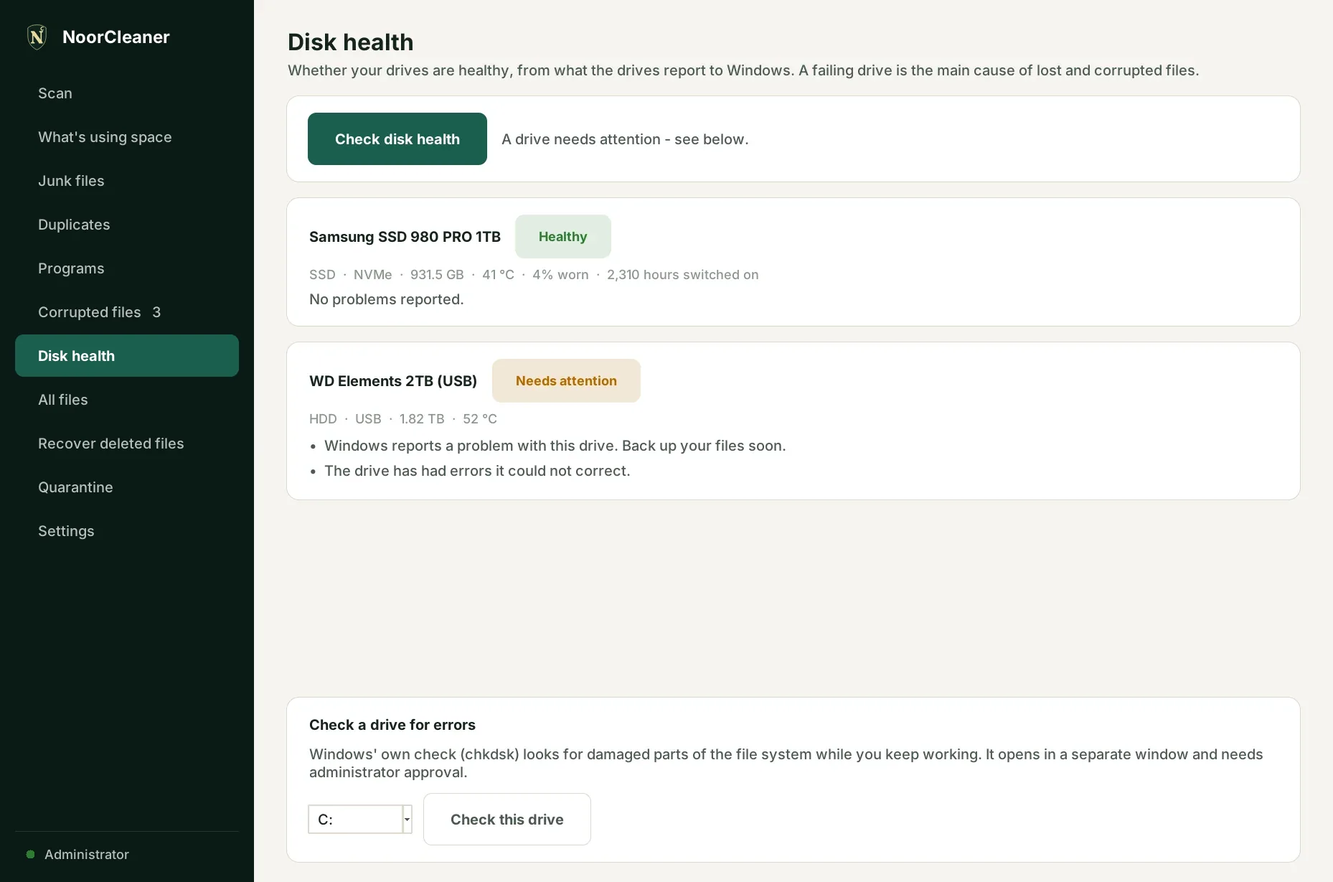
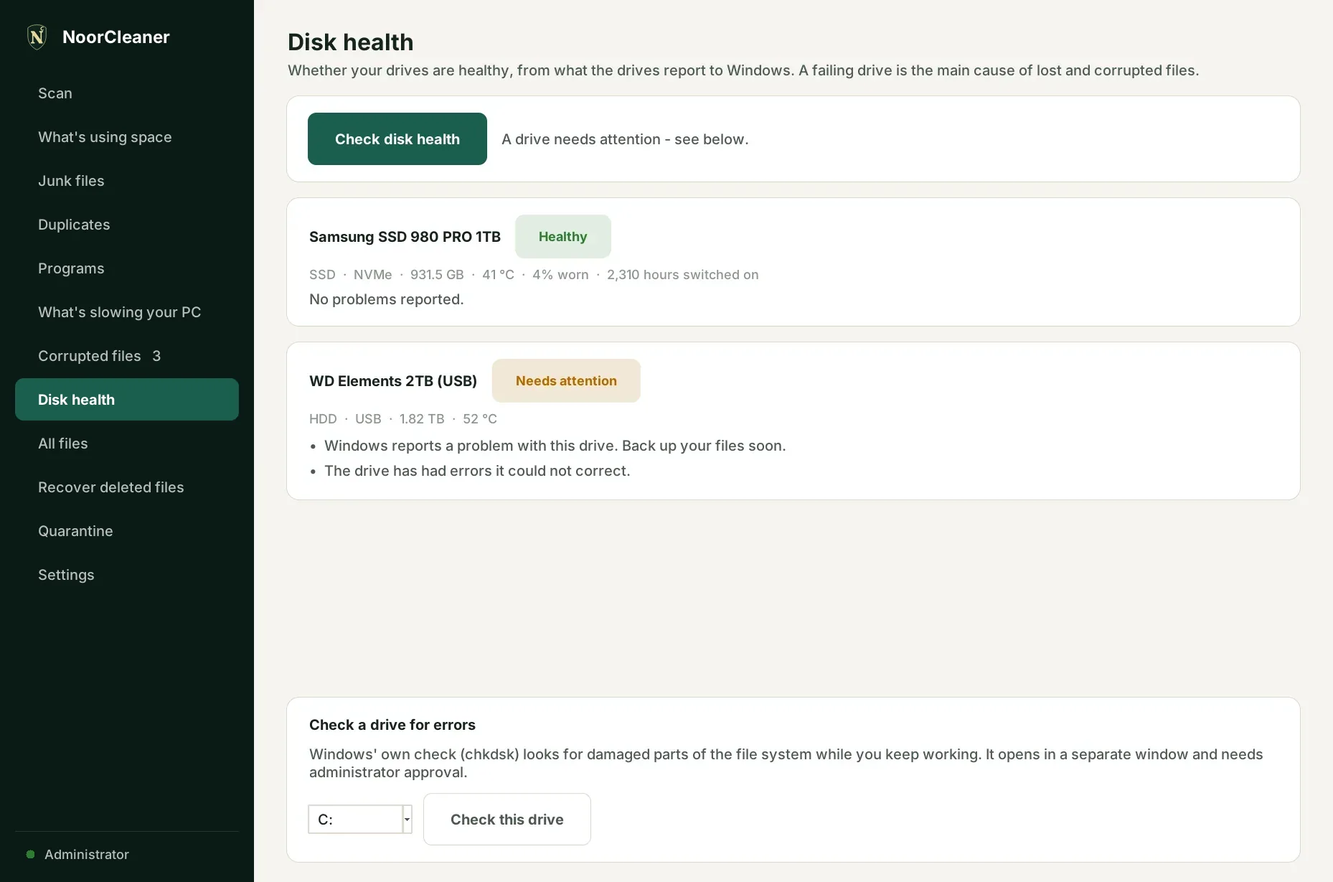
NoorCleaner page: new features (what's slowing your PC, unused programs), administrator and confirmation pop-up notes, fresh screenshots; NoorGuard page: administrator wording
Claude-Session: https://claude.ai/code/session_01XaM13YcQrwPvAWamN7GQYo

Changed region(s): [[0.0, 0.3401, 0.1873, 0.5566], [0.0312, 0.5875, 0.0936, 0.6184], [0.0312, 0.6493, 0.0624, 0.6802]]

diff --git a/noorcleaner/index.html b/noorcleaner/index.html
@@ -43,7 +43,7 @@
       <div>
         <span class="eyebrow" data-i18n="hero_eyebrow">Free Windows app · Early beta</span>
         <h1><span data-i18n="hero_title_1">See what's filling your PC.</span> <em data-i18n="hero_title_2">Free up space safely.</em></h1>
-        <p class="lead" data-i18n="hero_lead">NoorCleaner shows exactly what is taking up your storage, clears junk, finds duplicate files and similar photos, and helps you get back files you deleted. Nothing is removed unless you choose it.</p>
+        <p class="lead" data-i18n="hero_lead">NoorCleaner shows exactly what is taking up your storage and what is slowing your PC, clears junk, finds duplicate files and similar photos, spots programs you have not used for months, and helps you get back files you deleted. Nothing is removed unless you choose it.</p>
         <div class="ctas">
           <a class="btn btn-gold" data-download>
             <svg viewBox="0 0 24 24" aria-hidden="true"><path fill="currentColor" d="M3 5.5 10.5 4.4v7.1H3V5.5Zm0 13 7.5 1.1v-7H3v5.9Zm8.4 1.3L21 21V12.6h-9.6v7.2ZM11.4 4.3v7.2H21V3l-9.6 1.3Z"/></svg>
@@ -56,7 +56,7 @@
         </div>
       </div>
       <div class="window" aria-hidden="false">
-        <div class="titlebar"><img src="img/logo.svg" alt="">NoorCleaner 2.3<span class="controls"><span>&#8212;</span><span>&#9633;</span><span>&#10005;</span></span></div>
+        <div class="titlebar"><img src="img/logo.svg" alt="">NoorCleaner 2.5<span class="controls"><span>&#8212;</span><span>&#9633;</span><span>&#10005;</span></span></div>
         <img class="shot" src="img/space.webp" width="1858" height="1229" alt="NoorCleaner showing the biggest folders, file types and files on a PC" data-zoom>
       </div>
     </div>
@@ -78,7 +78,7 @@
       <div class="section-head reveal">
         <span class="kicker" data-i18n="features_kicker">Everything in one place</span>
         <h2 data-i18n="features_title">A clean, calm PC in a few clicks</h2>
-        <p data-i18n="features_text">Eight tools that work together, with a simple, calm design.</p>
+        <p data-i18n="features_text">Nine tools that work together, with a simple, calm design.</p>
       </div>
 
       <article class="feature reveal">
@@ -126,19 +126,33 @@
         <div class="feature-text">
           <span class="feature-num">4</span>
           <h3 data-i18n="f4_title">Programs and startup</h3>
-          <p data-i18n="f4_text">See which programs take the most space and uninstall the ones you no longer use. Choose what starts with Windows so your PC starts faster.</p>
-          <ul class="ticks"><li data-i18n="f4_b1">Installed programs, biggest first</li><li data-i18n="f4_b2">Uses each program's own uninstaller</li><li data-i18n="f4_b3">Turn startup programs off and on, just like Task Manager</li></ul>
+          <p data-i18n="f4_text">See which programs take the most space, find the ones you have not used for months, and uninstall them. Choose what starts with Windows so your PC starts faster.</p>
+          <ul class="ticks"><li data-i18n="f4_b1">Installed programs, biggest first, with each program's own uninstaller</li><li data-i18n="f4_b2">Programs with no sign of use for 3 months, 6 months or a year (a careful guess, not a verdict)</li><li data-i18n="f4_b3">Turn startup programs off and on, just like Task Manager</li></ul>
         </div>
         <figure class="shots" style="margin:0">
           <div class="window"><div class="titlebar"><img src="img/logo.svg" alt="">NoorCleaner<span class="controls"><span>&#8212;</span><span>&#9633;</span><span>&#10005;</span></span></div>
             <img class="shot" loading="lazy" src="img/programs.webp" width="1858" height="1229" alt="Installed programs" data-zoom></div>
-          <div class="tabs" role="tablist"><button role="tab" aria-selected="true" data-src="img/programs.webp" data-i18n="tab_installed">Installed programs</button><button role="tab" aria-selected="false" data-src="img/startup.webp" data-i18n="tab_startup">Startup programs</button></div>
+          <div class="tabs" role="tablist"><button role="tab" aria-selected="true" data-src="img/programs.webp" data-i18n="tab_installed">Installed programs</button><button role="tab" aria-selected="false" data-src="img/unused.webp" data-i18n="tab_unused">Not used for a long time</button><button role="tab" aria-selected="false" data-src="img/startup.webp" data-i18n="tab_startup">Startup programs</button></div>
         </figure>
       </article>
 
       <article class="feature reveal">
         <div class="feature-text">
           <span class="feature-num">5</span>
+          <h3 data-i18n="fs_title">What's slowing your PC</h3>
+          <p data-i18n="fs_text">Finds the likely reasons your PC feels slow, such as full memory, a busy disk, too many startup programs or little free space, and tells you what to do about each one.</p>
+          <ul class="ticks"><li data-i18n="fs_b1">Plain explanations instead of technical numbers</li><li data-i18n="fs_b2">Shows the programs using the most memory and processor</li><li data-i18n="fs_b3">Takes you straight to the fix: startup programs, junk files or Task Manager</li></ul>
+        </div>
+        <figure class="shots" style="margin:0">
+          <div class="window"><div class="titlebar"><img src="img/logo.svg" alt="">NoorCleaner<span class="controls"><span>&#8212;</span><span>&#9633;</span><span>&#10005;</span></span></div>
+            <img class="shot" loading="lazy" src="img/speed.webp" width="1858" height="1229" alt="What&#x27;s slowing your PC" data-zoom></div>
+          <div class="tabs" role="tablist"><button role="tab" aria-selected="true" data-src="img/speed.webp" data-i18n="tab_causes">Likely causes</button><button role="tab" aria-selected="false" data-src="img/busy.webp" data-i18n="tab_busy">Busy programs</button></div>
+        </figure>
+      </article>
+
+      <article class="feature reveal">
+        <div class="feature-text">
+          <span class="feature-num">6</span>
           <h3 data-i18n="f5_title">Disk health</h3>
           <p data-i18n="f5_text">A plain answer to "is my drive OK?", from what the drive itself reports to Windows: temperature, wear and errors.</p>
           <ul class="ticks"><li data-i18n="f5_b1">Healthy, needs attention, or failing: back up now</li><li data-i18n="f5_b2">SSD wear and hours switched on</li><li data-i18n="f5_b3">Runs Windows' own drive check for you</li></ul>
@@ -151,7 +165,7 @@
 
       <article class="feature reveal">
         <div class="feature-text">
-          <span class="feature-num">6</span>
+          <span class="feature-num">7</span>
           <h3 data-i18n="f6_title">Corrupted files</h3>
           <p data-i18n="f6_text">Finds documents, photos, videos and programs that are damaged or cut off, and repairs broken Windows files with Microsoft's own tools.</p>
           <ul class="ticks"><li data-i18n="f6_b1">Finds broken documents, photos, videos and programs</li><li data-i18n="f6_b2">Repairs damaged Windows files with Microsoft's own tools</li><li data-i18n="f6_b3">Quarantine locks files away first, and can restore them</li></ul>
@@ -164,7 +178,7 @@
 
       <article class="feature reveal">
         <div class="feature-text">
-          <span class="feature-num">7</span>
+          <span class="feature-num">8</span>
           <h3 data-i18n="f7_title">Recover deleted files</h3>
           <p data-i18n="f7_text">Get back files from the Recycle Bin, from Windows restore points, or, for permanently deleted files, with Microsoft's free Windows File Recovery.</p>
           <ul class="ticks"><li data-i18n="f7_b1">Puts files back where they came from</li><li data-i18n="f7_b2">Finds files that were in a restore point but are gone now</li><li data-i18n="f7_b3">Never saves recovered files over the ones you are rescuing</li></ul>
@@ -177,7 +191,7 @@
 
       <article class="feature reveal" id="languages">
         <div class="feature-text">
-          <span class="feature-num">8</span>
+          <span class="feature-num">9</span>
           <h3 data-i18n="f8_title">In your language</h3>
           <p data-i18n="f8_text">Choose English, Arabic or Afaan Oromoo when you install, and change it any time in Settings. In Arabic the whole app reads right to left.</p>
           <ul class="ticks"><li data-i18n="f8_b1">Every screen and message translated</li><li data-i18n="f8_b2">An optional weekly or monthly junk reminder</li><li data-i18n="f8_b3">Works completely offline</li></ul>
@@ -190,7 +204,6 @@
       </article>
     </div>
   </section>
-
 
   <section id="how">
     <div class="wrap">
@@ -210,7 +223,10 @@
           <h2 data-i18n="honest_title">What NoorCleaner does, honestly</h2>
           <ul>
             <li data-i18n="h1">Nothing is deleted unless you select it and confirm. Quarantined files can be restored.</li>
+            <li data-i18n="h5">Before any file is removed, a pop-up lists the files and which program (or Windows) each one belongs to, and asks you to confirm.</li>
+            <li data-i18n="h6">NoorCleaner always runs as administrator, so Windows asks for your approval each time it starts. That is how it can look at the whole PC.</li>
             <li data-i18n="h2">NoorCleaner does not look for viruses. For virus protection use Windows Security, or our security program NoorGuard.</li>
+            <li data-i18n="h7">The 'not used for a long time' list is a guess from the records Windows keeps. Check each program before you uninstall it.</li>
             <li data-i18n="h3">Recovering permanently deleted files is never guaranteed, especially on SSDs. The sooner you try, the better.</li>
             <li data-i18n="h4">It is an early beta. Please try it yourself before relying on it, and tell us what you find.</li>
           </ul>
@@ -233,7 +249,7 @@
         </div>
         <div class="req">
           <h3 data-i18n="req_title">Requirements</h3>
-          <ul class="ticks"><li data-i18n="req1">Windows 10 or 11 (64-bit)</li><li data-i18n="req2">No administrator rights needed to install</li><li data-i18n="req3">Run as administrator for protected folders, disk health details and Windows junk</li><li data-i18n="req4">No internet connection needed</li></ul>
+          <ul class="ticks"><li data-i18n="req1">Windows 10 or 11 (64-bit)</li><li data-i18n="req2">No administrator rights needed to install</li><li data-i18n="req3">Runs as administrator (Windows asks each time): needed to check the whole PC, other users' folders and to delete files</li><li data-i18n="req4">No internet connection needed</li></ul>
         </div>
       </div>
     </div>
@@ -253,7 +269,8 @@
       <div class="section-head reveal"><h2 data-i18n="faq_title">Questions</h2></div>
       <div class="faq">
         <details><summary data-i18n="q1">Is NoorCleaner free?</summary><p data-i18n="a1">Yes. There is no account, no subscription and no advertising inside the app.</p></details>
-        <details><summary data-i18n="q2">Will it delete anything by itself?</summary><p data-i18n="a2">No. It only lists what it finds. You choose what to remove, and it asks before every removal. The junk reminder only tells you; it never cleans by itself.</p></details>
+        <details><summary data-i18n="q2">Will it delete anything by itself?</summary><p data-i18n="a2">No. It only lists what it finds. You choose what to remove, and a pop-up shows the files and which program each belongs to before anything is removed. The junk reminder only tells you; it never cleans by itself.</p></details>
+        <details><summary data-i18n="q8">Why does it ask for administrator rights?</summary><p data-i18n="a8">To look at the whole PC, including other users' folders and protected folders, and to delete files Windows protects. Without it some checks would be incomplete and some deletions would fail. It still removes nothing without your confirmation.</p></details>
         <details><summary data-i18n="q3">Does it find viruses?</summary><p data-i18n="a3">No. NoorCleaner is about storage and damaged files. For virus scanning, network protection and security checks, use NoorGuard, our free security program.</p></details>
         <details><summary data-i18n="q4">Does it work in Arabic and Afaan Oromoo?</summary><p data-i18n="a4">Yes. Choose the language when you install, or later in Settings. The translations are new, so corrections are welcome.</p></details>
         <details><summary data-i18n="q5">Can it recover files I deleted permanently?</summary><p data-i18n="a5">Sometimes. It sets up Microsoft's free Windows File Recovery for you. It works best straight after deleting; on SSDs the data is often wiped quickly.</p></details>
@@ -293,7 +310,7 @@ const T = {
   "hero_eyebrow": "تطبيق مجاني لويندوز · نسخة تجريبية مبكرة",
   "hero_title_1": "اعرف ما الذي يملأ جهازك.",
   "hero_title_2": "وحرّر المساحة بأمان.",
-  "hero_lead": "يعرض نور كلينر بدقة ما الذي يشغل مساحة التخزين، وينظف الملفات غير الضرورية، ويجد الملفات المكررة والصور المتشابهة، ويساعدك على استعادة الملفات المحذوفة. لا يُحذف شيء إلا إذا اخترته أنت.",
+  "hero_lead": "يعرض نور كلينر بدقة ما الذي يشغل مساحة التخزين وما الذي يبطّئ جهازك، وينظف الملفات غير الضرورية، ويجد الملفات المكررة والصور المتشابهة، ويكشف البرامج التي لم تستخدمها منذ أشهر، ويساعدك على استعادة الملفات المحذوفة. لا يُزال شيء إلا إذا اخترته أنت.",
   "cta_download": "حمّل لويندوز",
   "cta_tour": "شاهد كيف يعمل",
   "hero_meta": "ويندوز 10 و11 · بلا حساب · يعمل دون إنترنت",
@@ -303,7 +320,7 @@ const T = {
   "stat4": "على جهازك: لا يُرفع أي شيء",
   "features_kicker": "كل شيء في مكان واحد",
   "features_title": "جهاز نظيف وهادئ بنقرات قليلة",
-  "features_text": "ثماني أدوات تعمل معًا بتصميم بسيط وهادئ.",
+  "features_text": "تسع أدوات تعمل معًا بتصميم بسيط وهادئ.",
   "f1_title": "ما الذي يشغل المساحة",
   "f1_text": "اعرف مدى امتلاء كل قرص، وافتح أكبر المجلدات لترى ما بداخلها، واكتشف أكبر الملفات وأنواعها بنظرة واحدة.",
   "f1_b1": "أكبر المجلدات، تُفتح مستوى بعد مستوى",
@@ -324,9 +341,9 @@ const T = {
   "tab_dups": "نسخ مطابقة",
   "tab_photos": "صور متشابهة",
   "f4_title": "البرامج وبدء التشغيل",
-  "f4_text": "اعرف أي البرامج تأخذ أكبر مساحة، وألغِ تثبيت ما لم تعد تستخدمه. واختر ما يبدأ مع ويندوز ليبدأ جهازك أسرع.",
-  "f4_b1": "البرامج المثبتة، الأكبر أولًا",
-  "f4_b2": "يستخدم برنامج إلغاء التثبيت الخاص بكل برنامج",
+  "f4_text": "اعرف أي البرامج تأخذ أكبر مساحة، واكتشف ما لم تستخدمه منذ أشهر، وألغِ تثبيته. واختر ما يبدأ مع ويندوز ليبدأ جهازك أسرع.",
+  "f4_b1": "البرامج المثبتة، الأكبر أولًا، مع برنامج إلغاء التثبيت الخاص بكل برنامج",
+  "f4_b2": "برامج لا علامة على استخدامها منذ 3 أشهر أو 6 أشهر أو سنة (تقدير حذر وليس حكمًا)",
   "f4_b3": "أوقف برامج بدء التشغيل وشغّلها، تمامًا كإدارة المهام",
   "tab_installed": "البرامج المثبتة",
   "tab_startup": "برامج بدء التشغيل",
@@ -376,13 +393,13 @@ const T = {
   "req_title": "المتطلبات",
   "req1": "ويندوز 10 أو 11 (64 بت)",
   "req2": "لا يحتاج صلاحيات المسؤول للتثبيت",
-  "req3": "شغّله كمسؤول للمجلدات المحمية وتفاصيل صحة الأقراص وملفات ويندوز غير الضرورية",
+  "req3": "يعمل كمسؤول (يطلب ويندوز موافقتك كل مرة): لازم لفحص الجهاز كله ومجلدات المستخدمين الآخرين وحذف الملفات",
   "req4": "لا يحتاج اتصالًا بالإنترنت",
   "faq_title": "أسئلة",
   "q1": "هل نور كلينر مجاني؟",
   "a1": "نعم. لا يوجد حساب ولا اشتراك ولا إعلانات داخل التطبيق.",
   "q2": "هل يحذف شيئًا من تلقاء نفسه؟",
-  "a2": "لا. يكتفي بعرض ما يجده. أنت تختار ما تزيله، ويسألك قبل كل عملية إزالة. والتذكير يخبرك فقط ولا ينظف من تلقاء نفسه أبدًا.",
+  "a2": "لا. يعرض فقط ما يجده. أنت تختار ما تزيله، وتعرض نافذة منبثقة الملفات والبرنامج الذي يتبعه كل ملف قبل أي إزالة. وتذكير الملفات غير الضرورية يخبرك فقط ولا ينظف من تلقاء نفسه.",
   "q3": "هل يجد الفيروسات؟",
   "a3": "لا. نور كلينر مخصص للتخزين والملفات التالفة. للفحص بحثًا عن الفيروسات وحماية الشبكة وفحوصات الأمان استخدم نور جارد، برنامجنا الأمني المجاني.",
   "q4": "هل يعمل بالعربية والأورومو؟",
@@ -404,7 +421,20 @@ const T = {
   "more_text": "تريد حماية أيضًا؟ نور جارد يفحص الفيروسات ويراقب شبكتك بحثًا عن الهجمات ويفحص إعدادات أمان ويندوز.",
   "more_btn": "تعرّف على نور جارد",
   "tab_om": "Afaan Oromoo",
-  "tab_om_junk": "Faayiloota kosii"
+  "tab_om_junk": "Faayiloota kosii",
+  "tab_unused": "غير مستخدمة منذ مدة طويلة",
+  "fs_title": "ما الذي يبطّئ جهازك",
+  "fs_text": "يجد الأسباب المحتملة لبطء جهازك، مثل امتلاء الذاكرة أو انشغال القرص أو كثرة برامج بدء التشغيل أو قلة المساحة الحرة، ويخبرك بما تفعله لكل منها.",
+  "fs_b1": "شرح بسيط بدل الأرقام التقنية",
+  "fs_b2": "يعرض البرامج الأكثر استخدامًا للذاكرة والمعالج",
+  "fs_b3": "يأخذك مباشرة إلى الحل: برامج بدء التشغيل أو الملفات غير الضرورية أو إدارة المهام",
+  "tab_causes": "الأسباب المحتملة",
+  "tab_busy": "البرامج المشغولة",
+  "h5": "قبل إزالة أي ملف تعرض نافذة منبثقة الملفات والبرنامج (أو ويندوز) الذي يتبعه كل ملف وتطلب تأكيدك.",
+  "h6": "يعمل نور كلينر دائمًا كمسؤول، لذا يطلب ويندوز موافقتك في كل مرة يبدأ فيها. بهذا يستطيع فحص الجهاز كله.",
+  "h7": "قائمة «غير مستخدمة منذ مدة طويلة» تقدير من سجلات يحتفظ بها ويندوز. افحص كل برنامج قبل إلغاء تثبيته.",
+  "q8": "لماذا يطلب صلاحيات المسؤول؟",
+  "a8": "ليتمكن من فحص الجهاز كله، بما في ذلك مجلدات المستخدمين الآخرين والمجلدات المحمية، وحذف الملفات التي يحميها ويندوز. من دونها تكون بعض الفحوصات ناقصة وتفشل بعض عمليات الحذف. ومع ذلك لا يزيل شيئًا من دون تأكيدك."
  },
  "om": {
   "nav_features": "Amaloota",
@@ -415,7 +445,7 @@ const T = {
   "hero_eyebrow": "Appii Windows bilisaa · Yaalii jalqabaa",
   "hero_title_1": "Maaltu kompiitara kee guute ilaali.",
   "hero_title_2": "Nagaan bakka bilisa baasi.",
-  "hero_lead": "NoorCleaner maaltu bakka kuusaa kee qabate sirriitti si agarsiisa, kosii qulqulleessa, faayiloota wal-fakkaatanii fi suuraalee wal-fakkaatan barbaada, faayiloota haqxe deebisuufis si gargaara. Ati yoo hin filatin homtuu hin haqamu.",
+  "hero_lead": "NoorCleaner wanta kuusaa kee guutu fi wanta kompiitara kee suuta godhu sirriitti agarsiisa, kosii qulqulleessa, faayiloota garagalcha fi suuraa walfakkaatu argata, appiiwwan ji'a hedduudhaaf hin fayyadamne ibsa, faayiloota haqaman deebisuuf si gargaara. Ati yoo filatte malee homtuu hin haqamu.",
   "cta_download": "Windowsf buufadhu",
   "cta_tour": "Akkamitti akka hojjetu ilaali",
   "hero_meta": "Windows 10 fi 11 · Akkaawuntii malee · Interneetii malee hojjeta",
@@ -425,7 +455,7 @@ const T = {
   "stat4": "kompiitara kee irratti: homtuu hin ergamu",
   "features_kicker": "Hundi bakka tokkotti",
   "features_title": "Kompiitara qulqulluu fi tasgabbaa'aa, tuqaa muraasaan",
-  "features_text": "Meeshaalee saddet kan wajjin hojjetan, dizaayinii salphaa fi calla'aa qaban.",
+  "features_text": "Meeshaalee sagal kan wajjin hojjetan, dizaayinii salphaa fi calla'aa qaban.",
   "f1_title": "Maaltu bakka qabate",
   "f1_text": "Diskiin tokkoon tokkoon hammam akka guutame ilaali, kuusaalee guguddoo keessa ilaaluuf bani, faayiloota fi gosoota guguddoo yeroo tokkotti argadhu.",
   "f1_b1": "Kuusaalee guguddoo, sadarkaa sadarkaan banaman",
@@ -445,10 +475,10 @@ const T = {
   "f3_b3": "Kuusaalee Windows fi sagantaalee, bakka garagalchi idilee ta'e, ni dabarsa",
   "tab_dups": "Garagalchoota sirrii",
   "tab_photos": "Suuraalee wal-fakkaatan",
-  "f4_title": "Sagantaalee fi jalqabaa",
-  "f4_text": "Sagantaalee bakka baay'ee qabatan ilaali, kanneen itti hin fayyadamne haqi. Kompiitarri kee akka dafee ka'uuf kanneen Windows waliin ka'an fili.",
-  "f4_b1": "Sagantaalee fe'aman, kan guddaa dursa",
-  "f4_b2": "Sagantaa haqu tokkoon tokkoon sagantaa isaa fayyadama",
+  "f4_title": "Appiiwwan fi jalqaba",
+  "f4_text": "Appiiwwan iddoo guddaa qabatan ilaali, kan ji'a hedduudhaaf hin fayyadamne argadhu, haqi. Kompiitarri kee ariitiin akka jalqabuuf wanta Windows waliin jalqabu filadhu.",
+  "f4_b1": "Appiiwwan fe'aman, kan guddaan jalqaba, haquu appii tokkoon tokkoon isaa waliin",
+  "f4_b2": "Appiiwwan ji'a 3, ji'a 6 ykn waggaa tokkoof mallattoon fayyadamaa hin qabne (tilmaama of eeggannoo, murtii miti)",
   "f4_b3": "Sagantaalee jalqabaa dhaabi fi kaasi, akkuma Task Manager",
   "tab_installed": "Sagantaalee fe'aman",
   "tab_startup": "Sagantaalee jalqabaa",
@@ -498,13 +528,13 @@ const T = {
   "req_title": "Kan barbaachisu",
   "req1": "Windows 10 ykn 11 (64-bit)",
   "req2": "Fe'uuf mirgi bulchaa hin barbaachisu",
-  "req3": "Kuusaalee eegamaniif, bal'ina fayyaa diskii fi kosii Windowsf akka bulchaatti bani",
+  "req3": "Akka bulchaatti hojjeta (Windows yeroo hundaa gaafata): kompiitara guutuu, foldaroota fayyadamtoota biroo ilaaluu fi faayiloota haquuf barbaachisa",
   "req4": "Walqunnamtiin interneetii hin barbaachisu",
   "faq_title": "Gaaffilee",
   "q1": "NoorCleaner bilisaa?",
   "a1": "Eeyyee. Akkaawuntii, kaffaltii ji'aa fi beeksisni appii keessa hin jiru.",
   "q2": "Ofumaan waan tokko haqaa?",
-  "a2": "Lakki. Waan argate qofa tarreessa. Waan haqamu ati filatta, haquu hunda dura si gaafata. Yaadachiisni sitti hima qofa; gonkumaa ofumaan hin qulqulleessu.",
+  "a2": "Lakki. Wanta argate qofa tarreessa. Ati wanta haqxu filatta, osoo homtuu hin haqamin dura foddaan faayiloota fi appii isaan kan ta'an agarsiisa. Yaadachiisni kosii si hima qofa; of danda'ee hin qulqulleessu.",
   "q3": "Vaayirasii ni argataa?",
   "a3": "Lakki. NoorCleaner kuusaa fi faayiloota badan irratti xiyyeeffata. Vaayirasii sakatta'uu, eegumsa network fi sakatta'iinsa nageenyaaf NoorGuard, sagantaa nageenyaa bilisaa keenya fayyadami.",
   "q4": "Arabiffaa fi Afaan Oromoon hojjetaa?",
@@ -526,7 +556,20 @@ const T = {
   "more_text": "Eegumsas barbaaddaa? NoorGuard vaayirasii sakatta'a, weerara irratti networkii kee eega, qindaa'ina nageenyaa Windows ilaala.",
   "more_btn": "NoorGuard ilaali",
   "tab_om": "Afaan Oromoo",
-  "tab_om_junk": "Faayiloota kosii"
+  "tab_om_junk": "Faayiloota kosii",
+  "tab_unused": "Yeroo dheeraaf hin fayyadamamne",
+  "fs_title": "Wanti kompiitara kee suuta godhu",
+  "fs_text": "Sababoota kompiitarri kee suuta ta'uuf tilmaamaman, akka hammeenya guutame, diskii hojii irra jiru, appiiwwan jalqabaa baay'ee ykn iddoo bilisaa xiqqoo argee, tokkoon tokkoon isaaf wanta gochuu qabdu sitti hima.",
+  "fs_b1": "Lakkoofsa teekinikaa bakka buusuuf ibsa salphaa",
+  "fs_b2": "Appiiwwan hammeenyaa fi processor baay'ee fayyadaman agarsiisa",
+  "fs_b3": "Kallattiin furmaataatti si geessa: appiiwwan jalqabaa, faayiloota kosii ykn Task Manager",
+  "tab_causes": "Sababoota tilmaamaman",
+  "tab_busy": "Appiiwwan hojii irra jiran",
+  "h5": "Osoo faayiliin tokko illee hin haqamin dura foddaan ba'u faayiloota fi appii (ykn Windows) isaan kan ta'an agarsiisee mirkaneessuu si gaafata.",
+  "h6": "NoorCleaner yeroo hundaa akka bulchaatti hojjeta, kanaaf Windows yeroo hundaa jalqabu eeyyama kee gaafata. Kompiitara guutuu ilaaluu kan danda'u kanaani.",
+  "h7": "Tarreen 'yeroo dheeraaf hin fayyadamamne' galmee Windows eegu irraa tilmaama. Osoo hin haqin dura appii tokkoon tokkoon ilaali.",
+  "q8": "Maaliif mirga bulchaa gaafata?",
+  "a8": "Kompiitara guutuu ilaaluuf, foldaroota fayyadamtoota biroo fi foldaroota eegaman dabalatee, fi faayiloota Windows eegu haquuf. Isaan malee sakatta'iinsi tokko tokko hin guutamu, haquun tokko tokko ni kufa. Ammallee eeyyama kee malee homtuu hin haqu."
  }
 };
 </script>

diff --git a/noorguard/index.html b/noorguard/index.html
@@ -56,7 +56,7 @@
         </div>
       </div>
       <div class="window" aria-hidden="false">
-        <div class="titlebar"><img src="img/logo.svg" alt="">NoorGuard 2.3<span class="controls"><span>&#8212;</span><span>&#9633;</span><span>&#10005;</span></span></div>
+        <div class="titlebar"><img src="img/logo.svg" alt="">NoorGuard 2.5<span class="controls"><span>&#8212;</span><span>&#9633;</span><span>&#10005;</span></span></div>
         <img class="shot" src="img/network.webp" width="1858" height="1229" alt="NoorGuard showing open ports and a possible attack" data-zoom>
       </div>
     </div>
@@ -197,7 +197,6 @@
     </div>
   </section>
 
-
   <section id="how">
     <div class="wrap">
       <div class="section-head reveal">
@@ -240,7 +239,7 @@
         </div>
         <div class="req">
           <h3 data-i18n="req_title">Requirements</h3>
-          <ul class="ticks"><li data-i18n="req1">Windows 10 or 11 (64-bit)</li><li data-i18n="req2">No administrator rights needed to install</li><li data-i18n="req3">Run as administrator to block, fix settings and read failed sign-ins</li><li data-i18n="req4">Internet only for the options you switch on</li></ul>
+          <ul class="ticks"><li data-i18n="req1">Windows 10 or 11 (64-bit)</li><li data-i18n="req2">No administrator rights needed to install</li><li data-i18n="req3">Runs as administrator (Windows asks each time): needed to block, fix settings and read failed sign-ins</li><li data-i18n="req4">Internet only for the options you switch on</li></ul>
         </div>
       </div>
     </div>
@@ -264,7 +263,7 @@
         <details><summary data-i18n="q3">Is it an antivirus?</summary><p data-i18n="a3">Not on its own. It adds its own checks and can run Microsoft Defender's full scan for you, but you should keep Windows Security turned on.</p></details>
         <details><summary data-i18n="q4">Does it work in Arabic and Afaan Oromoo?</summary><p data-i18n="a4">Yes. Choose the language when you install, or later in Settings. The translations are new, so corrections are welcome.</p></details>
         <details><summary data-i18n="q5">Does it send my data anywhere?</summary><p data-i18n="a5">No, unless you switch on an option that needs the internet. The country lookup sends only an attacker's public address to ipwho.is, and the password check sends only the first 5 characters of a fingerprint (hash) to the Have I Been Pwned service. Both are off or on request.</p></details>
-        <details><summary data-i18n="q6">Do I need administrator rights?</summary><p data-i18n="a6">To install, no. To block a port or address, switch protections on, change the hosts file or read the failed sign-in log, yes. NoorGuard tells you when it is not running as administrator and offers to restart as one.</p></details>
+        <details><summary data-i18n="q6">Do I need administrator rights?</summary><p data-i18n="a6">NoorGuard always runs as administrator, so Windows asks for your approval each time it starts. You do not need administrator rights to install it. It needs them to block a port or address, switch protections on, change the hosts file or read the failed sign-in log.</p></details>
         <details><summary data-i18n="q8">Does it protect me if the window is closed?</summary><p data-i18n="a8">Yes, if you switched on live protection: closing the window keeps NoorGuard in the tray, and it can start with Windows. It cannot protect a PC while the program is not running.</p></details>
         <details><summary data-i18n="q7">How do I uninstall it?</summary><p data-i18n="a7">Like any app: Windows Settings, then Apps, then NoorGuard, then Uninstall.</p></details>
       </div>
@@ -398,7 +397,7 @@ const T = {
   "download_note": "قد يقول ويندوز «Windows protected your PC» لأن التطبيق جديد وغير موقّع بعد. انقر «More info» ثم «Run anyway».",
   "req1": "ويندوز 10 أو 11 (64 بت)",
   "req2": "لا حاجة إلى صلاحيات المسؤول للتثبيت",
-  "req3": "شغّله كمسؤول للحظر وإصلاح الإعدادات وقراءة محاولات الدخول الفاشلة",
+  "req3": "يعمل كمسؤول (يطلب ويندوز موافقتك كل مرة): لازم للحظر وإصلاح الإعدادات وقراءة محاولات الدخول الفاشلة",
   "req4": "الإنترنت فقط للخيارات التي تفعّلها",
   "q1": "هل نور جارد مجاني؟",
   "a1": "نعم. لا حساب ولا اشتراك ولا إعلانات داخل التطبيق.",
@@ -409,7 +408,7 @@ const T = {
   "q5": "هل يرسل بياناتي إلى أي مكان؟",
   "a5": "لا، ما لم تفعّل خيارًا يحتاج إلى الإنترنت. بحث الدولة يرسل فقط عنوان المهاجم العام إلى ipwho.is، وفحص كلمة المرور يرسل فقط أول 5 خانات من بصمتها (hash) إلى خدمة Have I Been Pwned. وكلاهما مُعطّل أو عند الطلب.",
   "q6": "هل أحتاج إلى صلاحيات المسؤول؟",
-  "a6": "للتثبيت لا. لحظر منفذ أو عنوان أو تفعيل الحمايات أو تغيير ملف hosts أو قراءة سجل محاولات الدخول الفاشلة نعم. ينبّهك نور جارد عندما لا يعمل كمسؤول ويعرض إعادة التشغيل كمسؤول.",
+  "a6": "يعمل نور جارد دائمًا كمسؤول، لذا يطلب ويندوز موافقتك في كل مرة يبدأ فيها. لا تحتاج إلى صلاحيات المسؤول لتثبيته. لكنه يحتاجها لحظر منفذ أو عنوان أو تفعيل الحمايات أو تغيير ملف hosts أو قراءة سجل محاولات الدخول الفاشلة.",
   "q8": "هل يحميني إذا أُغلقت النافذة؟",
   "a8": "نعم، إذا فعّلت الحماية المباشرة: إغلاق النافذة يُبقي نور جارد في منطقة الإشعارات، ويمكنه البدء مع ويندوز. ولا يستطيع حماية الجهاز عندما لا يكون البرنامج قيد التشغيل.",
   "more_title": "من نورسوفت أيضًا",
@@ -524,7 +523,7 @@ const T = {
   "download_note": "Windows \"Windows protected your PC\" jechuu danda'a sababni isaa appiin haaraa fi hin mallatteeffamne. \"More info\", achiis \"Run anyway\" tuqi.",
   "req1": "Windows 10 ykn 11 (64-bit)",
   "req2": "Fe'uuf mirgi bulchaa hin barbaachisu",
-  "req3": "Dhorkuu, qindaa'ina suphuu fi yaalii seensa kufe dubbisuuf akka bulchaatti hojjechiisi",
+  "req3": "Akka bulchaatti hojjeta (Windows yeroo hundaa gaafata): dhorkuu, qindaa'ina suphuu fi yaalii seensa kufe dubbisuuf barbaachisa",
   "req4": "Interneetiin filannoo ati banuuf qofa",
   "q1": "NoorGuard bilisaa dhaa?",
   "a1": "Eeyyee. Akaawuntiin, kaffaltiin ykn beeksisni appii keessa hin jiru.",
@@ -535,7 +534,7 @@ const T = {
   "q5": "Daataa koo bakka kamittuu ergaa?",
   "a5": "Lakki, filannoo interneetii barbaadu yoo banne malee. Barbaachi biyyaa teessoo ifaa weeraraa qofa gara ipwho.is erga, sakatta'iinsi jecha icciitii arfii 5 jalqabaa mallattoo (hash) qofa tajaajila Have I Been Pwned'tti erga. Lamaanuu cufaa ykn gaaffiin qofa.",
   "q6": "Mirga bulchaa nan barbaadaa?",
-  "a6": "Fe'uuf hin barbaachisu. Poortii ykn teessoo dhorkuuf, eegumsa banuuf, faayilii hosts jijjiiruuf ykn galmee seensa kufe dubbisuuf ni barbaachisa. NoorGuard akka bulchaatti yeroo hin hojjenne sitti himee akka bulchaatti irra deebi'ee jalqabuu dhiyeessa.",
+  "a6": "NoorGuard yeroo hundaa akka bulchaatti hojjeta, kanaaf Windows yeroo hundaa jalqabu eeyyama kee gaafata. Fe'uuf mirga bulchaa hin barbaadu. Poortii ykn teessoo dhorkuuf, eegumsa banuuf, faayilii hosts jijjiiruuf ykn galmee seensa kufe dubbisuuf ni barbaada.",
   "q8": "Foddaan yoo cufame na eegaa?",
   "a8": "Eeyyee, eegumsa yeroo dhugaa yoo bante: foddaa cufuun NoorGuard tray keessa akka jiraatu godha, Windows waliin jalqabuus danda'a. Sagantaan yeroo hin hojjetin kompiitara eegu hin danda'u.",
   "more_title": "Noorsoft irraa kan biraa",
